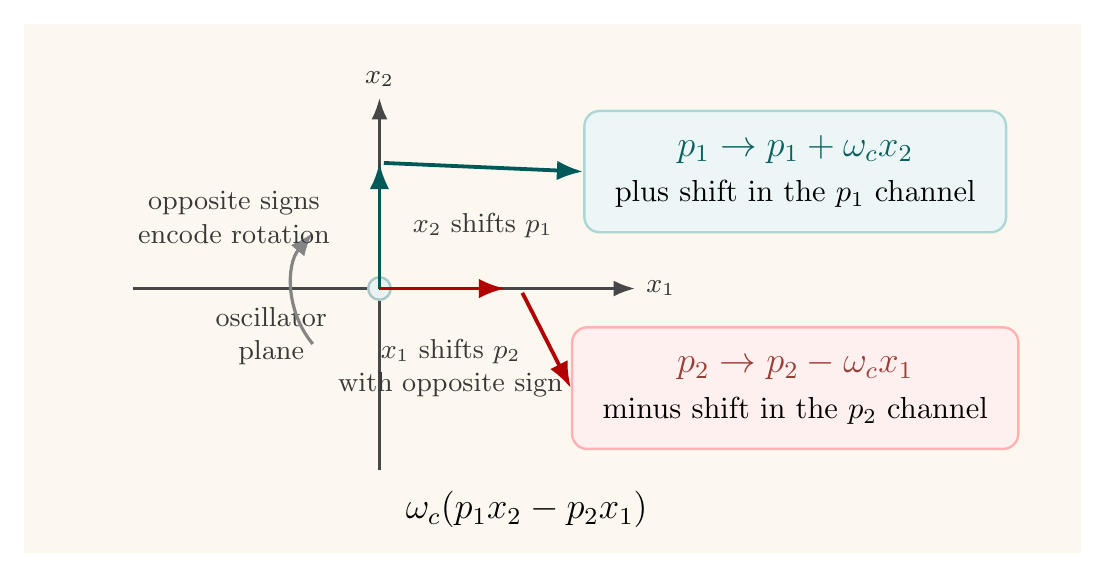
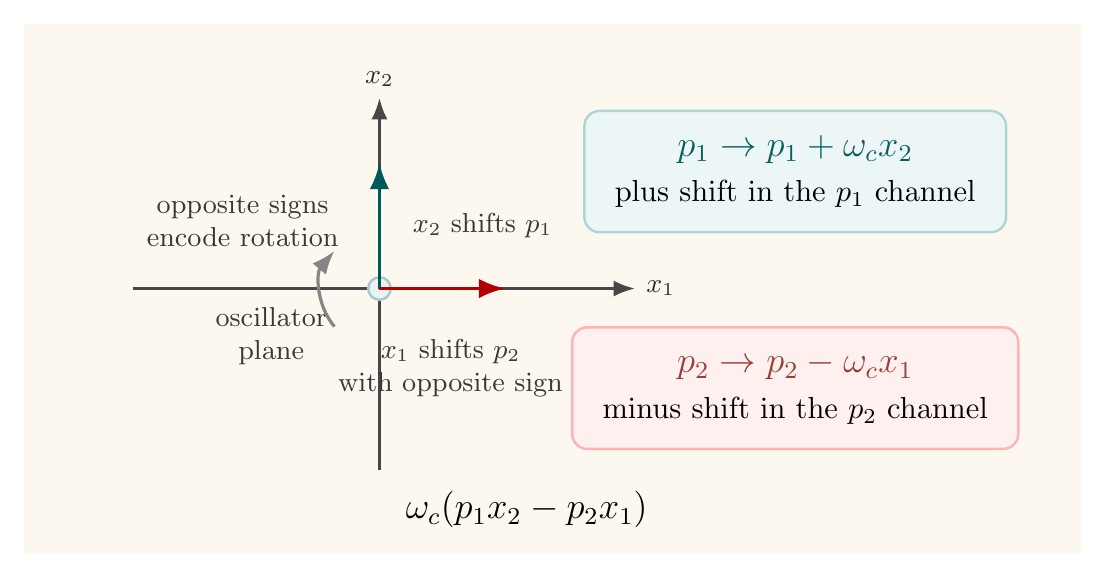
.

diff --git a/assets/tikz/magnetic-momentum-shift.tex b/assets/tikz/magnetic-momentum-shift.tex
@@ -42,9 +42,9 @@
   {{\large\color{softred}$p_2\rightarrow p_2-\omega_c x_1$}\\[3pt]
    minus shift in the $p_2$ channel};
 
-\draw[->, line width=1.05pt, draw=black!48] (-2.77,-0.64)
-  arc[start angle=220, end angle=140, radius=1.0];
-\node[note] at (-3.68,0.82) {opposite signs\\encode rotation};
+\draw[->, line width=1.05pt, draw=black!48] (-2.52,-0.44)
+  arc[start angle=220, end angle=140, radius=0.68];
+\node[note] at (-3.58,0.78) {opposite signs\\encode rotation};
 
 \node[formula] at (-0.3,-2.55)
   {$\omega_c(p_1x_2-p_2x_1)$};